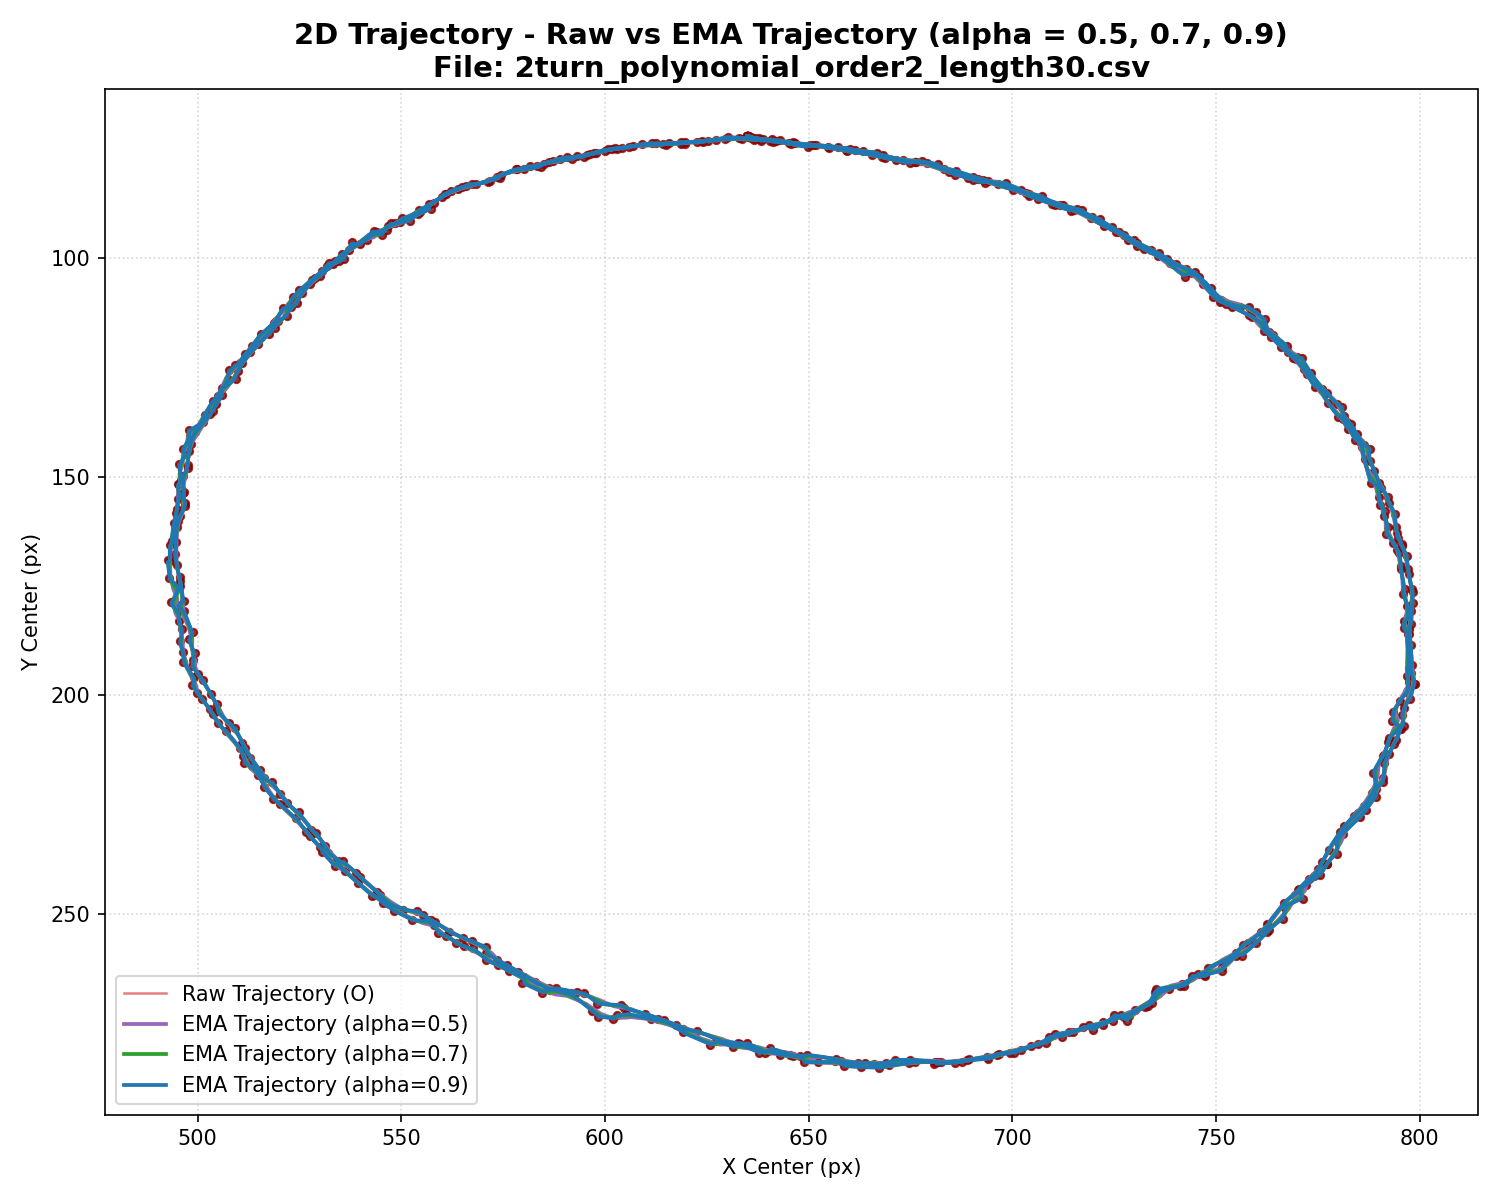
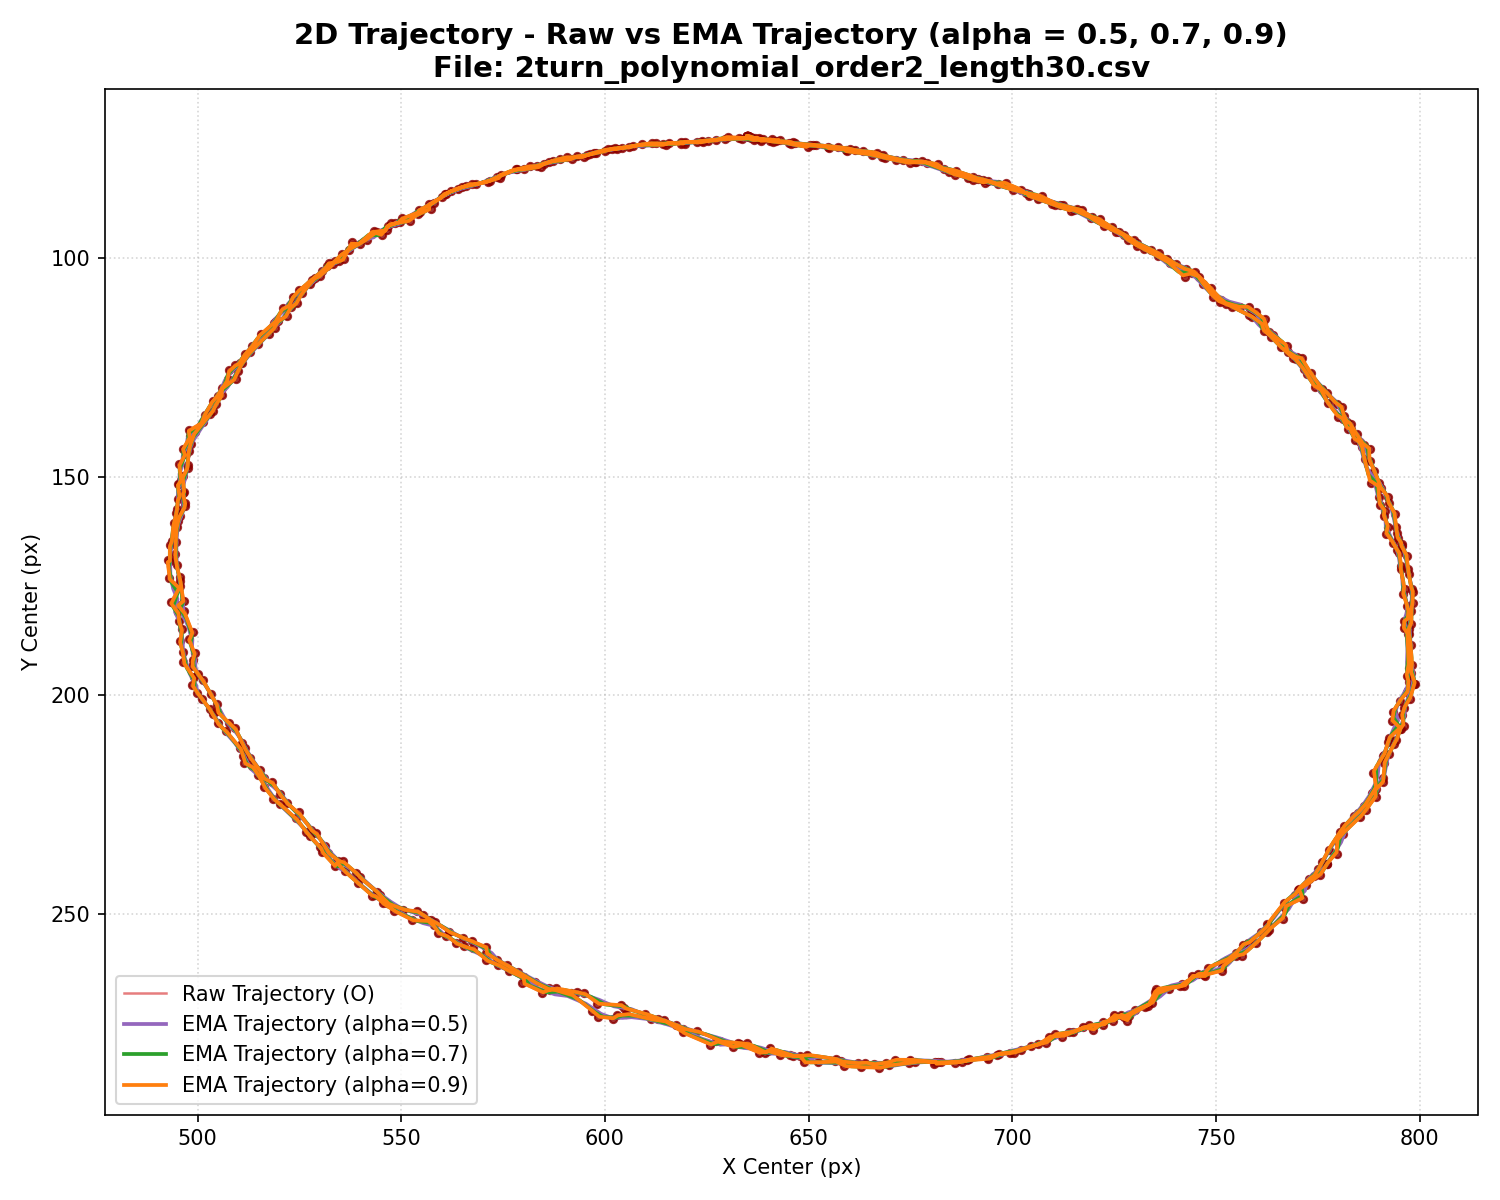
use high-contrast triadic color palette (Purple 0.5, Green 0.7, Orange 0.9)

diff --git a/260808/tools/plot_ema_clean.py b/260808/tools/plot_ema_clean.py
@@ -84,19 +84,19 @@ def run_clean_ema_experiments(csv_file: str, seg_length: int = 30, num_segments:
     # ONLY ALPHAS 0.5, 0.7, 0.9
     alphas = [0.5, 0.7, 0.9]
 
-    # Harmonized Color Palette per Alpha Family:
+    # Distinct High-Contrast Color Palette per Alpha Family:
     # - Alpha 0.5: Tím đậm (Smoothed) & Tím/Hồng nhạt (Unsmoothed Traj Angle)
     # - Alpha 0.7: Xanh lá đậm (Smoothed) & Xanh lá nhạt (Unsmoothed Traj Angle)
-    # - Alpha 0.9: Xanh lam đậm (Smoothed) & Xanh lam nhạt (Unsmoothed Traj Angle)
+    # - Alpha 0.9: Cam đậm (Smoothed) & Vàng/Cam nhạt (Unsmoothed Traj Angle)
     alpha_colors = {
-        0.5: '#9467bd', # Dark Purple
-        0.7: '#2ca02c', # Dark Green
-        0.9: '#1f77b4'  # Dark Blue
+        0.5: '#9467bd', # Deep Purple
+        0.7: '#2ca02c', # Emerald Green
+        0.9: '#ff7f0e'  # Vibrant Dark Orange
     }
     traj_angle_colors = {
-        0.5: '#dfa6e8', # Light Purple/Pink (Same purple family as alpha 0.5)
-        0.7: '#87d987', # Light Green (Same green family as alpha 0.7)
-        0.9: '#8dc5f8'  # Light Blue (Same blue family as alpha 0.9)
+        0.5: '#e8a5e8', # Light Pink/Purple (Same purple family as alpha 0.5)
+        0.7: '#8cd98c', # Light Mint Green (Same green family as alpha 0.7)
+        0.9: '#ffc299'  # Light Peach/Orange (Same orange family as alpha 0.9)
     }
 
     # 1. Compute EMA streams for alphas 0.5, 0.7, 0.9
@@ -182,7 +182,7 @@ def run_clean_ema_experiments(csv_file: str, seg_length: int = 30, num_segments:
     plt.close(fig_time)
 
     # ─────────────────────────────────────────────────────────────────────────
-    # SECTION 4 IMAGES: DOUBLE SMOOTH (Harmonized Color Families for Same Alpha)
+    # SECTION 4 IMAGES: DOUBLE SMOOTH (High Contrast Color Palette: Purple, Green, Orange)
     # ─────────────────────────────────────────────────────────────────────────
     fig_traj4, ax_traj4 = plt.subplots(figsize=(10, 8), dpi=150)
     ax_traj4.plot(valid_df['x_center'], valid_df['y_center'], color='#d62728', linewidth=1.2, linestyle='-', alpha=0.6, label='Raw Trajectory (O)', zorder=1)
@@ -203,7 +203,7 @@ def run_clean_ema_experiments(csv_file: str, seg_length: int = 30, num_segments:
     plt.close(fig_traj4)
 
     # Time Series for Section 4:
-    # - Same Alpha shares SAME color family:
+    # - Same Alpha shares SAME color family (Purple, Green, Orange):
     #   * Dark Tone: EMA Smooth Traj Angle (2nd pass smoothed)
     #   * Light Tone: EMA Traj Angle (1st pass unsmoothed)
     fig_time4, ax_ang4 = plt.subplots(figsize=(13, 7), dpi=150)
@@ -289,9 +289,9 @@ def run_clean_ema_experiments(csv_file: str, seg_length: int = 30, num_segments:
             fig_seg.savefig(out_seg_img, dpi=150)
             plt.close(fig_seg)
 
-            # Segment plot for Section 4 (Harmonized Color Families per Alpha)
+            # Segment plot for Section 4 (High Contrast Alpha Color Families: Purple, Green, Orange)
             fig_seg4, (ax_st4, ax_sa4) = plt.subplots(1, 2, figsize=(16, 6.5), dpi=150)
-            fig_seg4.suptitle(f'Random Segment {idx_seg+1} Zoom-in (Frames {frame_start}-{frame_end}) - Harmonized Alpha Color Families\nFile: {csv_path.name}', fontsize=13, fontweight='bold')
+            fig_seg4.suptitle(f'Random Segment {idx_seg+1} Zoom-in (Frames {frame_start}-{frame_end}) - High Contrast Color Families\nFile: {csv_path.name}', fontsize=13, fontweight='bold')
 
             ax_st4.plot(seg['x_center'], seg['y_center'], color='#d62728', linewidth=1.2, linestyle='-', alpha=0.7, label='Raw Trajectory (O)', zorder=1)
             ax_st4.scatter(seg['x_center'], seg['y_center'], color='#8b0000', s=16, marker='o', alpha=0.8, zorder=2)
@@ -317,7 +317,7 @@ def run_clean_ema_experiments(csv_file: str, seg_length: int = 30, num_segments:
                 seg_ema_smooth_traj_unwrapped = align_phase(np.degrees(np.unwrap(np.radians(seg[f'ema_smooth_traj_angle_a{a}']))) , seg_raw_unwrapped)
                 ax_sa4.plot(seg['frame_id'], seg_ema_smooth_traj_unwrapped, color=alpha_colors[a], linewidth=2.0, linestyle='-', label=f'EMA Smooth Traj Angle (alpha={a})')
 
-            ax_sa4.set_title(f'Heading Angle Zoom-in (Same Alpha = Same Color Family)', fontsize=11, fontweight='bold')
+            ax_sa4.set_title(f'Heading Angle Zoom-in (Alpha Families: Purple 0.5, Green 0.7, Orange 0.9)', fontsize=11, fontweight='bold')
             ax_sa4.set_xlabel('Frame ID')
             ax_sa4.set_ylabel('Degrees')
             ax_sa4.grid(True, linestyle='--', alpha=0.6)
@@ -328,11 +328,11 @@ def run_clean_ema_experiments(csv_file: str, seg_length: int = 30, num_segments:
             fig_seg4.savefig(out_seg4_img, dpi=150)
             plt.close(fig_seg4)
 
-    print(f"[SUCCESS] Đã lưu thành công bộ đồ thị Section 3 & Section 4 với trường màu đồng bộ cho file {csv_path.name}")
+    print(f"[SUCCESS] Đã lưu thành công bộ đồ thị Section 3 & Section 4 với các trường màu đối lập (Tím, Xanh lá, Cam) cho file {csv_path.name}")
 
 
 if __name__ == "__main__":
-    parser = argparse.ArgumentParser(description="Selective & Double Smooth EMA Plotting with Harmonized Color Palette")
+    parser = argparse.ArgumentParser(description="Selective & Double Smooth EMA Plotting with High Contrast Color Palette")
     parser.add_argument("csv_file", type=str, help="Path to input benchmark CSV file")
     parser.add_argument("--seg-len", type=int, default=30, help="Segment length (default 30)")
     parser.add_argument("--num-segs", type=int, default=3, help="Number of random segments (default 3)")

diff --git a/260808/Readme2.md b/260808/Readme2.md
@@ -6,7 +6,7 @@
 - Bổ sung đường biểu đồ góc tiếp tuyến được tính trực tiếp từ tọa độ mượt EMA của quỹ đạo.
 - Tạm thời ẩn đường mượt `EMA Angle` của raw_angle.
 - Thực hiện làm mượt EMA Lần 2 trên đường góc tiếp tuyến tính từ các đường mượt EMA quỹ đạo với hệ số alpha đồng bộ tương ứng.
-- **Chuẩn hóa trường màu đồng bộ theo từng hệ số alpha:** Cùng 1 mức alpha sẽ dùng chung 1 họ màu (Tông đậm = Đã mượt Lần 2; Tông nhạt = Chưa mượt Lần 2).
+- **Tối ưu bảng màu đối lập cao (High Contrast Color Palette):** Sử dụng 3 họ màu phân biệt rõ rệt **Tím ($\alpha=0.5$), Xanh lá ($\alpha=0.7$), Cam ($\alpha=0.9$)** giúp dễ quan sát và không bị nhầm lẫn giữa các đường.
 
 ---
 
@@ -105,10 +105,10 @@ python tools/plot_ema_clean.py benchmark/3turn_polynomial_order2_length30.csv --
 
 ### 4.1. Biểu đồ Smooth EMA Lần 2 trên Góc Tiếp tuyến Quỹ đạo
 
-Tạm thời ẩn đường mượt góc `EMA Angle` trực tiếp từ raw_angle của model. So sánh đường **Raw Angle (Model)** với **Góc tiếp tuyến chưa mượt Lần 2 (`EMA Traj Angle`)** và **Góc tiếp tuyến đã mượt Lần 2 (`EMA Smooth Traj Angle`)** với **trường màu đồng bộ cho từng hệ số alpha**:
-- **Alpha = 0.5 (Trường màu Tím):** `EMA Traj Angle` (Tím/Hồng nhạt), `EMA Smooth Traj Angle` (Tím đậm).
-- **Alpha = 0.7 (Trường màu Xanh lá):** `EMA Traj Angle` (Xanh lá nhạt), `EMA Smooth Traj Angle` (Xanh lá đậm).
-- **Alpha = 0.9 (Trường màu Xanh lam):** `EMA Traj Angle` (Xanh lam nhạt), `EMA Smooth Traj Angle` (Xanh lam đậm).
+Tạm thời ẩn đường mượt góc `EMA Angle` trực tiếp từ raw_angle của model. So sánh đường **Raw Angle (Model)** với **Góc tiếp tuyến chưa mượt Lần 2 (`EMA Traj Angle`)** và **Góc tiếp tuyến đã mượt Lần 2 (`EMA Smooth Traj Angle`)** với **bảng màu đối lập rõ rệt cho từng hệ số alpha**:
+- **Alpha = 0.5 (Trường màu Tím):** `EMA Traj Angle` (Tím/Hồng nhạt `#e8a5e8`), `EMA Smooth Traj Angle` (Tím đậm `#9467bd`).
+- **Alpha = 0.7 (Trường màu Xanh lá):** `EMA Traj Angle` (Xanh lá nhạt `#8cd98c`), `EMA Smooth Traj Angle` (Xanh lá đậm `#2ca02c`).
+- **Alpha = 0.9 (Trường màu Cam):** `EMA Traj Angle` (Cam/Vàng nhạt `#ffc299`), `EMA Smooth Traj Angle` (Cam đậm `#ff7f0e`).
 
 #### a) Leanbot chạy 3 vòng (`3turn`)
 ![3turn Double Smooth Trajectory](benchmark/3turn_ema_double_smooth_2d_trajectory.png)
